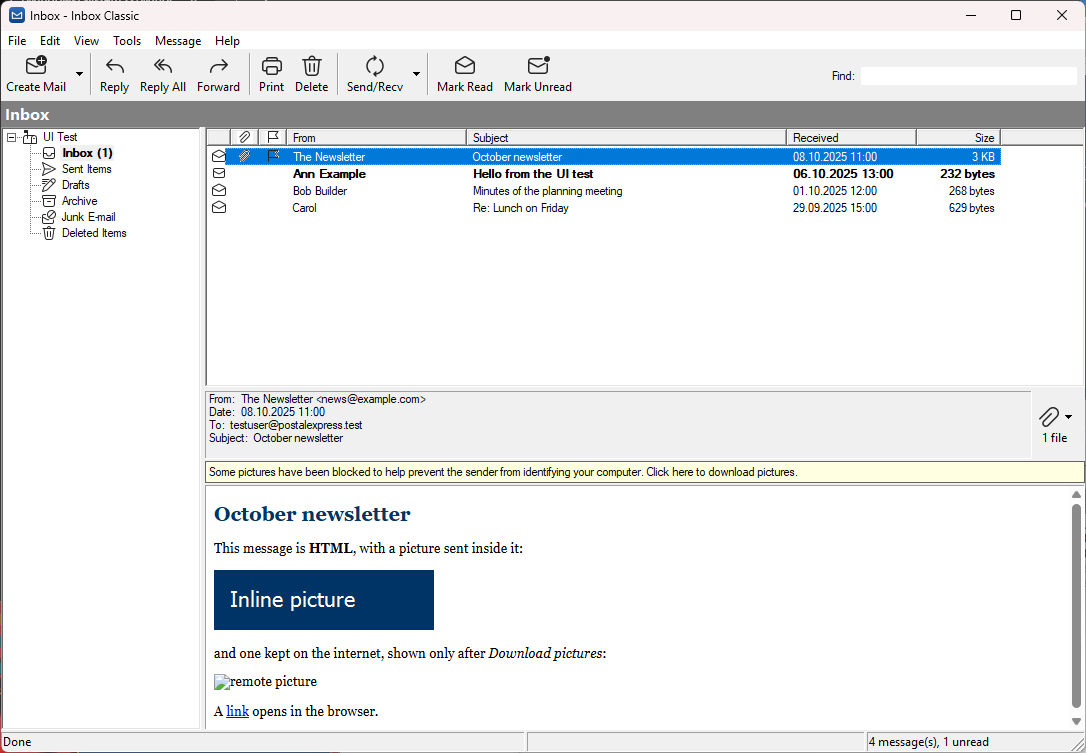
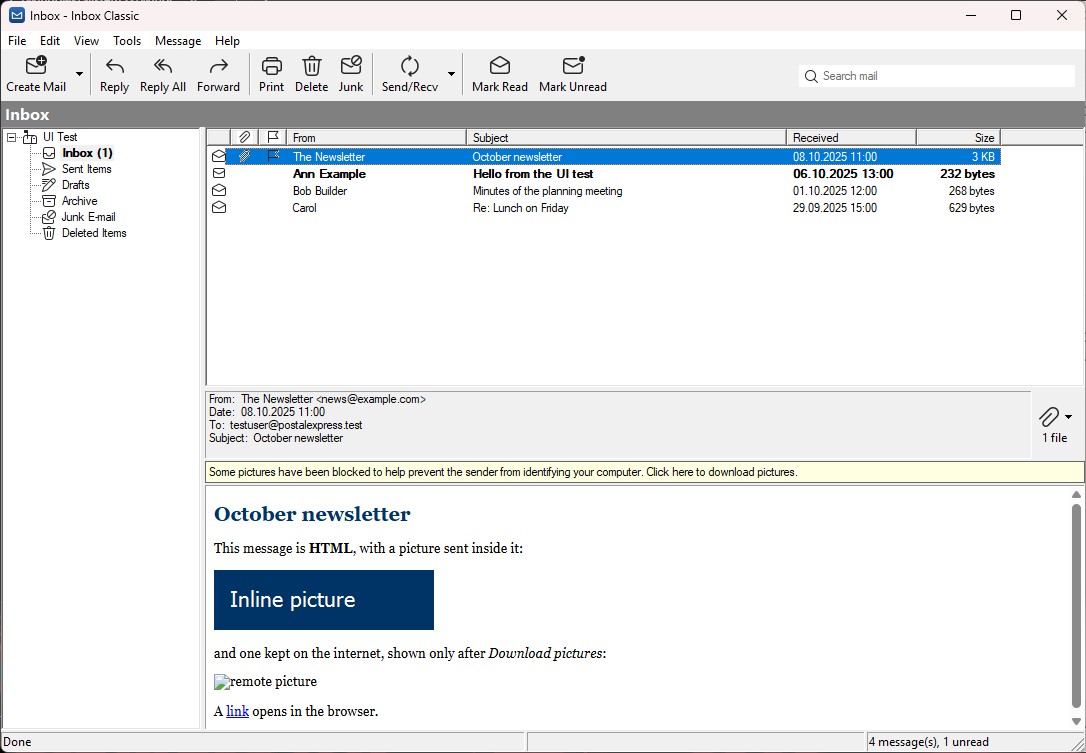
Inbox Classic 0.4.0: search, new mail right away, a cleaner inbox
New feature cards and a search section with its screenshot, the other
screenshots refreshed, and the privacy page says when the app reaches
beyond the mail servers: an unsubscribe you confirm and brand logos your
provider approved.

Changed region(s): [[0.3039, 0.0611, 0.547, 0.1222], [0.7597, 0.0916, 0.8204, 0.1222], [0.0, 0.9774, 0.0304, 1.0]]

diff --git a/index.html b/index.html
@@ -389,6 +389,21 @@
                             <p>Every account in one folder tree, and one click to check them all. Pick which address a message goes from as you write it.</p>
                         </div>
                         <div class="card">
+                            <h3>Finds anything</h3>
+                            <p>Search every folder as you type, by subject, people, attachments and text, with the search words you know from Gmail.</p>
+                        </div>
+                        <div class="card">
+                            <h3>New mail right away</h3>
+                            <p>
+                                Mail shows up the moment it arrives, with a notification and a count on the taskbar, even while the window is closed to the
+                                tray.
+                            </p>
+                        </div>
+                        <div class="card">
+                            <h3>A cleaner inbox</h3>
+                            <p>Unsubscribe from a mailing list in one click, send junk to the Junk folder, and drag messages into folders.</p>
+                        </div>
+                        <div class="card">
                             <h3>Reads offline</h3>
                             <p>Your mail is kept on your computer too, so it opens instantly, with or without a connection.</p>
                         </div>
@@ -396,13 +411,17 @@
                             <h3>No trackers</h3>
                             <p>Pictures that tell senders you opened their mail stay blocked until you ask for them. Scripts in messages never run.</p>
                         </div>
+
                         <div class="card">
                             <h3>Replies without clutter</h3>
                             <p>Long quoted histories fold away, so you see what the sender actually wrote, and your reply starts on top.</p>
                         </div>
                         <div class="card">
                             <h3>Nothing phones home</h3>
-                            <p>No analytics and no sign-up. Inbox Classic talks to your mail servers and nobody else.</p>
+                            <p>
+                                No analytics, no sign-up and nothing sent to us. Inbox Classic talks to your mail servers, and to a sender's site only for
+                                pictures you choose to load, an unsubscribe you confirm or a brand logo your provider approved.
+                            </p>
                         </div>
                     </div>
                 </div>
@@ -429,12 +448,23 @@
                     </div>
                     <div class="pair">
                         <div>
-                            <h3>Write the way you always have</h3>
+                            <h3>Find any message</h3>
                             <p>
-                                Formatting when you want it, plain text when you don't. Drag files in to attach them. If you are offline, the message waits in
-                                the Outbox and goes by itself.
+                                Type in the search box and the list shows what matches, from every folder, with the folder each message is in. Try
+                                <code>from:anna</code>, <code>is:unread</code> or <code>has:attachment</code>. The search runs on your computer, so it is
+                                instant and works offline.
                             </p>
                         </div>
+                        <img
+                            class="shot"
+                            src="img/find-2-every-folder.png"
+                            width="1086"
+                            height="753"
+                            alt="Search results from every folder: a yellow bar says five results for hello in all folders, and the list has a Folder column"
+                            loading="lazy"
+                        />
+                    </div>
+                    <div class="pair flip">
                         <img
                             class="shot"
                             src="img/write-5-new.png"
@@ -443,6 +473,13 @@
                             alt="The compose window with From, To, Subject, attachments and the format bar"
                             loading="lazy"
                         />
+                        <div>
+                            <h3>Write the way you always have</h3>
+                            <p>
+                                Formatting when you want it, plain text when you don't, and a signature for each account. Addresses complete as you type. Drag
+                                files in to attach them. If you are offline, the message waits in the Outbox and goes by itself.
+                            </p>
+                        </div>
                     </div>
                 </div>
             </section>

diff --git a/privacy.html b/privacy.html
@@ -179,6 +179,15 @@
                         <b>Pictures from the internet</b> in a message are loaded from the sender's servers only when you choose to see them. Links in messages
                         open in your web browser.
                     </li>
+                    <li>
+                        <b>Unsubscribing from a mailing list</b>: when you click Unsubscribe and agree, Inbox Classic sends the list's own unsubscribe address
+                        the request the message asks for (this tells the list your address wants out), writes the message the list wants for you to send, or
+                        opens the list's page in your browser.
+                    </li>
+                    <li>
+                        <b>Brand logos</b>: when your mail provider has checked that a message really comes from a brand and approved its logo (BIMI), Inbox
+                        Classic may fetch that logo from the brand's address once per run, without cookies, when you open the message.
+                    </li>
                 </ul>
                 <p>
                     Inbox Classic's use and transfer of information received from Google APIs adheres to the
